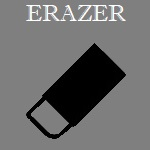
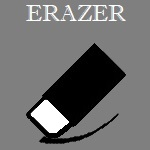
Added black and white filler and eraser functionality

Changed region(s): [[0.1867, 0.64, 0.7467, 0.96], [0.7733, 0.7467, 0.8, 0.7733], [0.7467, 0.7733, 0.7733, 0.8]]

diff --git a/src/main/java/src/main/java/GUI/GUI.java b/src/main/java/src/main/java/GUI/GUI.java
@@ -8,10 +8,14 @@ import javax.swing.SwingConstants;
 import javax.swing.ImageIcon;
 
 import org.opencv.core.Mat;
+
 import src.main.java.Settings;
 import utils.File.Hotkeys;
+import utils.File.IconLocator;
 import utils.File.ImageDropHandler;
 import utils.GUI.Zoom;
+import utils.GUI.ClickFloodFill;
+import utils.GUI.MainImage;
 import utils.GUI.Pan;
 import utils.Processing.MatManager;
 import utils.Processing.MorphManager;
@@ -24,6 +28,12 @@ import java.awt.RenderingHints;
 import java.awt.Graphics2D;
 import java.awt.Graphics;
 import java.awt.Image;
+import java.awt.Cursor;
+import java.awt.Toolkit;
+import java.awt.event.ComponentAdapter;
+import java.awt.event.ComponentEvent;
+import java.awt.Image;
+import java.awt.Point;
 
 public class GUI extends javax.swing.JFrame
 {
@@ -31,6 +41,11 @@ public class GUI extends javax.swing.JFrame
     private static JPanel buttonPanel;
     private static JPanel mainPanel;
     private static Image current_image = null;
+
+    private static double render_scale = 0.0;
+
+    // 0 for eraser, 1 for filler, -1 for none
+    private static int editing_mode = -1;
 
     private static boolean popup_available = true;
 
@@ -78,7 +93,7 @@ public class GUI extends javax.swing.JFrame
         buttons[7] = new ErosionGUI();
         buttons[8] = new DilationGUI();
         buttons[9] = new AutomateGUI();
-        buttons[10] = new Filler();
+        buttons[10] = new FillerGUI();
         buttons[11] = new EraserGUI();
         buttons[12] = new ZoomInGUI();
         buttons[13] = new ZoomOutGUI();
@@ -106,10 +121,10 @@ public class GUI extends javax.swing.JFrame
     public static void render(Mat newImage)
     {
         //Update the current_image to the new image to be displayed by the GUI
-        current_image = MatManager.matToImage(newImage);
+        Image image = MatManager.matToImage(newImage);
 
         //Scale the image to match the height/width of the main panel
-        current_image = current_image.getScaledInstance(-1, mainPanel.getHeight(), Image.SCALE_DEFAULT);
+        current_image = image.getScaledInstance(-1, mainPanel.getHeight(), Image.SCALE_DEFAULT);
 
         //Render the new current_image
         render();
@@ -125,6 +140,25 @@ public class GUI extends javax.swing.JFrame
         mainPanel.repaint();
     }
 
+    public static Point getImageTopLeft(){
+        if (current_image != null){
+            int scaled_width = (int) (current_image.getWidth(null) * Zoom.getZoom());
+            int scaled_height = (int) (current_image.getHeight(null) * Zoom.getZoom());
+
+            // Calculate the position to center the image
+            int x = (mainPanel.getWidth() - scaled_width) / 2;
+            int y = (mainPanel.getHeight() - scaled_height) / 2;
+
+            return new Point(x + Pan.getX(), y + Pan.getY());
+        }
+        else{
+            return new Point(0, 0);
+        }
+    }
+
+    public static double getImageRenderScale(){
+        return render_scale;
+    }
 
     private static JPanel createMainPanel()
     {
@@ -141,6 +175,8 @@ public class GUI extends javax.swing.JFrame
                     // Calculate the scaled size based on the zoom factor
                     int scaled_width = (int) (current_image.getWidth(null) * Zoom.getZoom());
                     int scaled_height = (int) (current_image.getHeight(null) * Zoom.getZoom());
+
+                    render_scale = (double) scaled_height / MainImage.getImageHeight();
 
                     // Calculate the position to center the image
                     int x = (getWidth() - scaled_width) / 2;
@@ -175,6 +211,9 @@ public class GUI extends javax.swing.JFrame
         //Add image zoom functionality
         Zoom.addMouseListeners(mainPanel);
 
+        //Add image floodfill functionality
+        ClickFloodFill.addMouseListeners(mainPanel);
+
         return mainPanel;
     }
 
@@ -200,5 +239,25 @@ public class GUI extends javax.swing.JFrame
     public static void destroyGUI()
     {
         popup_available = true;
+    }
+
+    public static boolean isEditing(int modeToCheck){
+        return editing_mode == modeToCheck;
+    }
+
+    public static void setEditing(int mode){
+        editing_mode = mode;
+    }
+
+    public static void changeCursor(int index){
+        if(index == -1){
+            frame.getRootPane().setCursor(Cursor.getDefaultCursor());
+        }
+        else{
+            Toolkit toolkit = Toolkit.getDefaultToolkit();
+            Image image = toolkit.getImage(IconLocator.getCursorPath(index));
+            Cursor c = toolkit.createCustomCursor(image , new Point(0, 0), "cur");
+            frame.getRootPane().setCursor(c);
+        }
     }
 }

diff --git a/src/main/java/utils/GUI/ClickFloodFill.java b/src/main/java/utils/GUI/ClickFloodFill.java
@@ -1,0 +1,94 @@
+package utils.GUI;
+
+import src.main.java.GUI.GUI;
+import utils.Definition.ColorBGRValue;
+import utils.File.FileIO;
+import utils.Processing.MatManager;
+
+import javax.sound.midi.MidiChannel;
+import javax.swing.JPanel;
+import javax.swing.SwingUtilities;
+
+import java.awt.Point;
+import java.awt.event.MouseAdapter;
+import java.awt.event.MouseEvent;
+import java.awt.MouseInfo;
+
+import org.opencv.core.Scalar;
+
+public class ClickFloodFill {
+    private static boolean isEdited = false;
+    private static Scalar color = ColorBGRValue.BGR_WHITE;
+
+	//This Point contains the initial location on the screen that the user pressed
+	private static Point initial_position = new Point(0, 0);
+
+    //This Point contains the relative location of the mouse cursor on the image
+    private static Point relative_position = new Point(0, 0);
+
+    public static void setMode(Scalar newColor){
+        color = newColor;
+    }
+
+    //Add the mouse listeners to main_panel
+	public static void addMouseListeners(JPanel main_panel)
+	{
+		//Starting and stopping a pan
+		main_panel.addMouseListener(new MouseAdapter() {
+			//Start to pan the image
+			@Override
+			public void mousePressed(MouseEvent e)
+			{
+				//When the mouse is pressed, get the location of the press which the current pan will be made relative to
+				if (SwingUtilities.isLeftMouseButton(e))
+				{
+					initial_position = e.getPoint();
+				}
+			}
+
+			//Stop panning the image
+			@Override
+			public void mouseReleased(MouseEvent e)
+			{
+				//When the mouse is released, the pan is over
+				//Add the total pan made to the buffer
+				if (SwingUtilities.isLeftMouseButton(e))
+				{
+                    if(!GUI.isEditing(-1) && e.getPoint().equals(initial_position)){
+                        Point image_anchor_topLeft = GUI.getImageTopLeft();
+
+                        Point mouse_screen_location = MouseInfo.getPointerInfo().getLocation();
+                        Point panel_screen_location = main_panel.getLocationOnScreen();
+                        relative_position = new Point(mouse_screen_location.x - panel_screen_location.x - image_anchor_topLeft.x, mouse_screen_location.y - panel_screen_location.y - image_anchor_topLeft.y);
+
+                        double render_scale = GUI.getImageRenderScale();
+                        relative_position.x = (int) (relative_position.x / render_scale);
+                        relative_position.y = (int) (relative_position.y / render_scale);
+
+                        if(relative_position.x >= 0 && relative_position.x <= MainImage.getImageWidth() && relative_position.y >= 0 && relative_position.y <= MainImage.getImageHeight()){
+                            System.out.println("FloodFill position on actual image: " + relative_position.x + ", " + relative_position.y);
+                            FloodFillImage.setImageMat(MatManager.floodFill(FloodFillImage.getImageMat(), relative_position.x, relative_position.y, color));
+                            GUI.render(FloodFillImage.getImageMat());
+                            isEdited = true;
+                        }
+                    }
+				}
+				else if (SwingUtilities.isMiddleMouseButton(e))
+				{
+					Zoom.zoomReset();
+					Pan.panReset();
+				}
+			}
+		});
+	}
+
+    public static void save(String operation){
+        MainImage.setImage(FloodFillImage.getImageMat());
+        GUI.render(MainImage.getImageMat());
+
+        if(isEdited){
+            FileIO.export(operation);
+            isEdited = false;
+        }
+    }
+}

diff --git a/src/main/java/src/main/java/GUI/FillerGUI.java b/src/main/java/src/main/java/GUI/FillerGUI.java
@@ -8,11 +8,11 @@ import utils.GUI.ClickFloodFill;
 import utils.GUI.FloodFillImage;
 import utils.GUI.MainImage;
 
-public class EraserGUI extends JButton
+public class FillerGUI extends JButton
 {
-	public EraserGUI()
+	public FillerGUI()
 	{
-		setIcon(new ImageIcon(IconLocator.getIconPath(19)));
+		setIcon(new ImageIcon(IconLocator.getIconPath(18)));
 		addActionListener(e -> act());
 	}
 
@@ -21,20 +21,20 @@ public class EraserGUI extends JButton
 		if (MainImage.exists() && MainImage.checkBinary() && GUI.isEditing(-1))
 		{
 			GUI.createGUI();
-			GUI.setEditing(0);
-			GUI.changeCursor(0);
-			ClickFloodFill.setMode(ColorBGRValue.BGR_WHITE);
+			GUI.setEditing(1);
+			GUI.changeCursor(1);
+			ClickFloodFill.setMode(ColorBGRValue.BGR_BLACK);
 			FloodFillImage.setImageMat(MainImage.getImageMat());
 
-			System.out.println("magic eraser tool has been launched");
+			System.out.println("fill bucket tool has been launched");
 		}
-		else if(GUI.isEditing(0)){
+		else if(GUI.isEditing(1)){
 			GUI.destroyGUI();
 			GUI.setEditing(-1);
 			GUI.changeCursor(-1);
-			ClickFloodFill.save("eraser");
+			ClickFloodFill.save("filler");
 
-			System.out.println("magic eraser tool has been closed");
+			System.out.println("fill bucket tool has been closed");
 		}
 	}
 }

diff --git a/src/main/java/utils/GUI/MainImage.java b/src/main/java/utils/GUI/MainImage.java
@@ -22,7 +22,7 @@ public class MainImage
 	private static Mat image;
 
 	//This blocks access to any filters until an image has been imported into the application
-	private static boolean exists = false, isGray = false, isBinary = false;
+	private static boolean exists = false, doneThreshold = false, doneSplit = false;
 
 	//Update the image being processed by the application to be new_image
 	public static void setImage(Mat new_image)
@@ -73,19 +73,19 @@ public class MainImage
 	}
 
 	public static boolean checkGray(){
-		return isGray;
+		return doneSplit;
 	}
 
-	public static void setGray(boolean gray){
-		isGray = gray;
+	public static void setSplit(boolean bool){
+		doneSplit = bool;
 	}
 
 	public static boolean checkBinary(){
-		return isBinary;
+		return doneSplit && doneThreshold;
 	}
 
-	public static void setBinary(boolean binary){
-		isBinary = binary;
+	public static void setThreshold(boolean bool){
+		doneThreshold = bool;
 	}
 
 	//Return the filename of the image

diff --git a/src/main/java/src/main/java/Settings.java b/src/main/java/src/main/java/Settings.java
@@ -7,6 +7,7 @@ public class Settings //this is getting replaced with a File with these values s
 	public static int DEFAULT_HEIGHT = 800;
 	public static String VERSION = "0.0.2";
 	public static String[] ICONS = new String[] {"contrast", "gauss", "RGB", "invert", "help", "threshold", "despeckle", "erosion", "dilation", "brush", "resize", "save", "undo", "redo", "auto", "zoom_in", "zoom_out", "zoom_reset", "filler", "eraser"};
+	public static String[] CURSORS = new String[] {"cursor_eraser", "cursor_filler"};
 	public static double ZOOM_FACTOR = 1.1;
 
 	public static String[] SUPPORTED_FILE_FORMATS = new String[] {"avif", "jpg", "jpeg", "png", "tif", "tiff", "webp"};

diff --git a/src/main/java/utils/Processing/MatManager.java b/src/main/java/utils/Processing/MatManager.java
@@ -97,8 +97,8 @@ public class MatManager {
 		return destImage;
 	}
 
-	public static Mat floodFill(Mat srcImage, Point seedPoint, Scalar newVal){
-		Imgproc.floodFill(srcImage, new Mat(), seedPoint, newVal);
+	public static Mat floodFill(Mat srcImage, int x, int y, Scalar newVal){
+		Imgproc.floodFill(srcImage, new Mat(), new Point(x, y), newVal);
 
 		return srcImage;
 	}

diff --git a/src/main/java/utils/GUI/FloodFillImage.java b/src/main/java/utils/GUI/FloodFillImage.java
@@ -1,0 +1,18 @@
+package utils.GUI;
+
+import org.opencv.core.Mat;
+
+public class FloodFillImage {
+    //The image itself
+	private static Mat image;
+
+	//Return the application's image as a Mat
+	public static Mat getImageMat()
+	{
+		return image;
+	}
+
+	public static void setImageMat(Mat img){
+		image = img;
+	}
+}

diff --git a/src/main/java/utils/Processing/Thresholding.java b/src/main/java/utils/Processing/Thresholding.java
@@ -74,9 +74,7 @@ public class Thresholding
 	public static void save()
 	{
 		MainImage.setImage(adjustThreshold(threshold));
-        if(MainImage.checkGray()){
-            MainImage.setBinary(true);
-        }
+        MainImage.setThreshold(true);
 		reset();
 
 		FileIO.export("Threshold");

diff --git a/src/main/java/utils/File/IconLocator.java b/src/main/java/utils/File/IconLocator.java
@@ -9,4 +9,8 @@ public class IconLocator
 	{
 		return "icons/" + Settings.ICONS[icon_id] + ".png";
 	}
+
+	public static String getCursorPath(int cursor_id){
+		return "icons/" + Settings.CURSORS[cursor_id] + ".png";
+	}
 }

diff --git a/src/main/java/utils/Processing/RGB.java b/src/main/java/utils/Processing/RGB.java
@@ -42,7 +42,7 @@ public class RGB
 		if (channel > -1)
 		{
 			MainImage.setImage(split(channel));
-			MainImage.setGray(true);
+			MainImage.setSplit(true);
 
 			FileIO.export("RGB");
 		}
